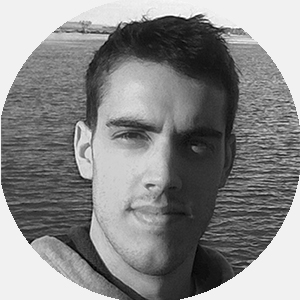
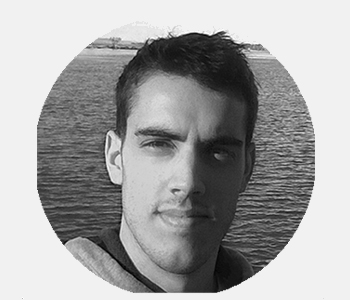
tfg
ghgh

diff --git a/index.html b/index.html
@@ -89,7 +89,7 @@
 									<div class="social column">
 
 										<div class="media">
-												<img src="images/face.jpg" align="left" hspace="50"/></a>
+												<img src="images/face.jpg" align="left"/></a>
 										</div>
 										<h3>About Me</h3>
 										<p>Amante de videojuegos, fan del Cine y adicto a la Música
